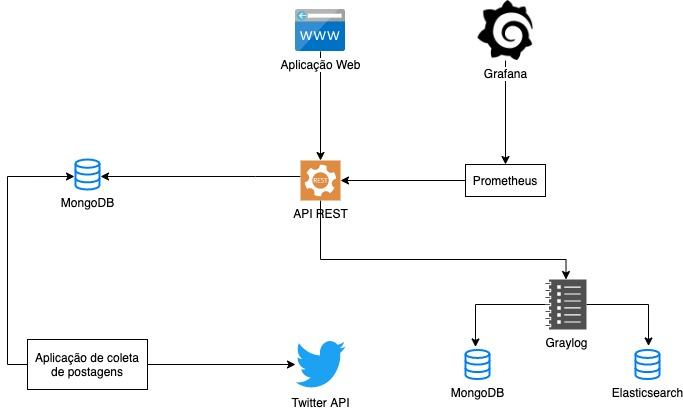
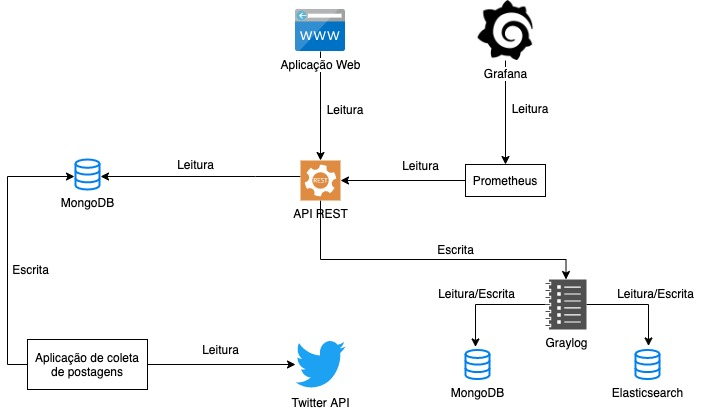
Update docs about architecture

diff --git a/README.md b/README.md
@@ -172,7 +172,7 @@ Essa aplicação faz uma consulta à todas as rotas da API REST e exibe os resul
   <img src="./docs/arquitetura.jpg" alt="Architecture image" />
 </p>
 
-Na figura acima é possível ter uma visão geral de como o projeto foi estruturado. A direção das setas indica como as aplicações e bancos de dados interagem. Por exemplo, há uma seta que aponta do Grafana para o Prometheus, indicando que o Grafana consome dados do Prometheus.
+Na figura acima é possível ter uma visão geral de como o projeto foi estruturado. A direção das setas e o rótulo indicam como as aplicações e bancos de dados interagem. Por exemplo, há uma seta que aponta do Grafana para o Prometheus com o rótulo de `Leitura`, indicando que o Grafana consome dados do Prometheus.
 
 ### Cadastro de usuários e postagens
 
